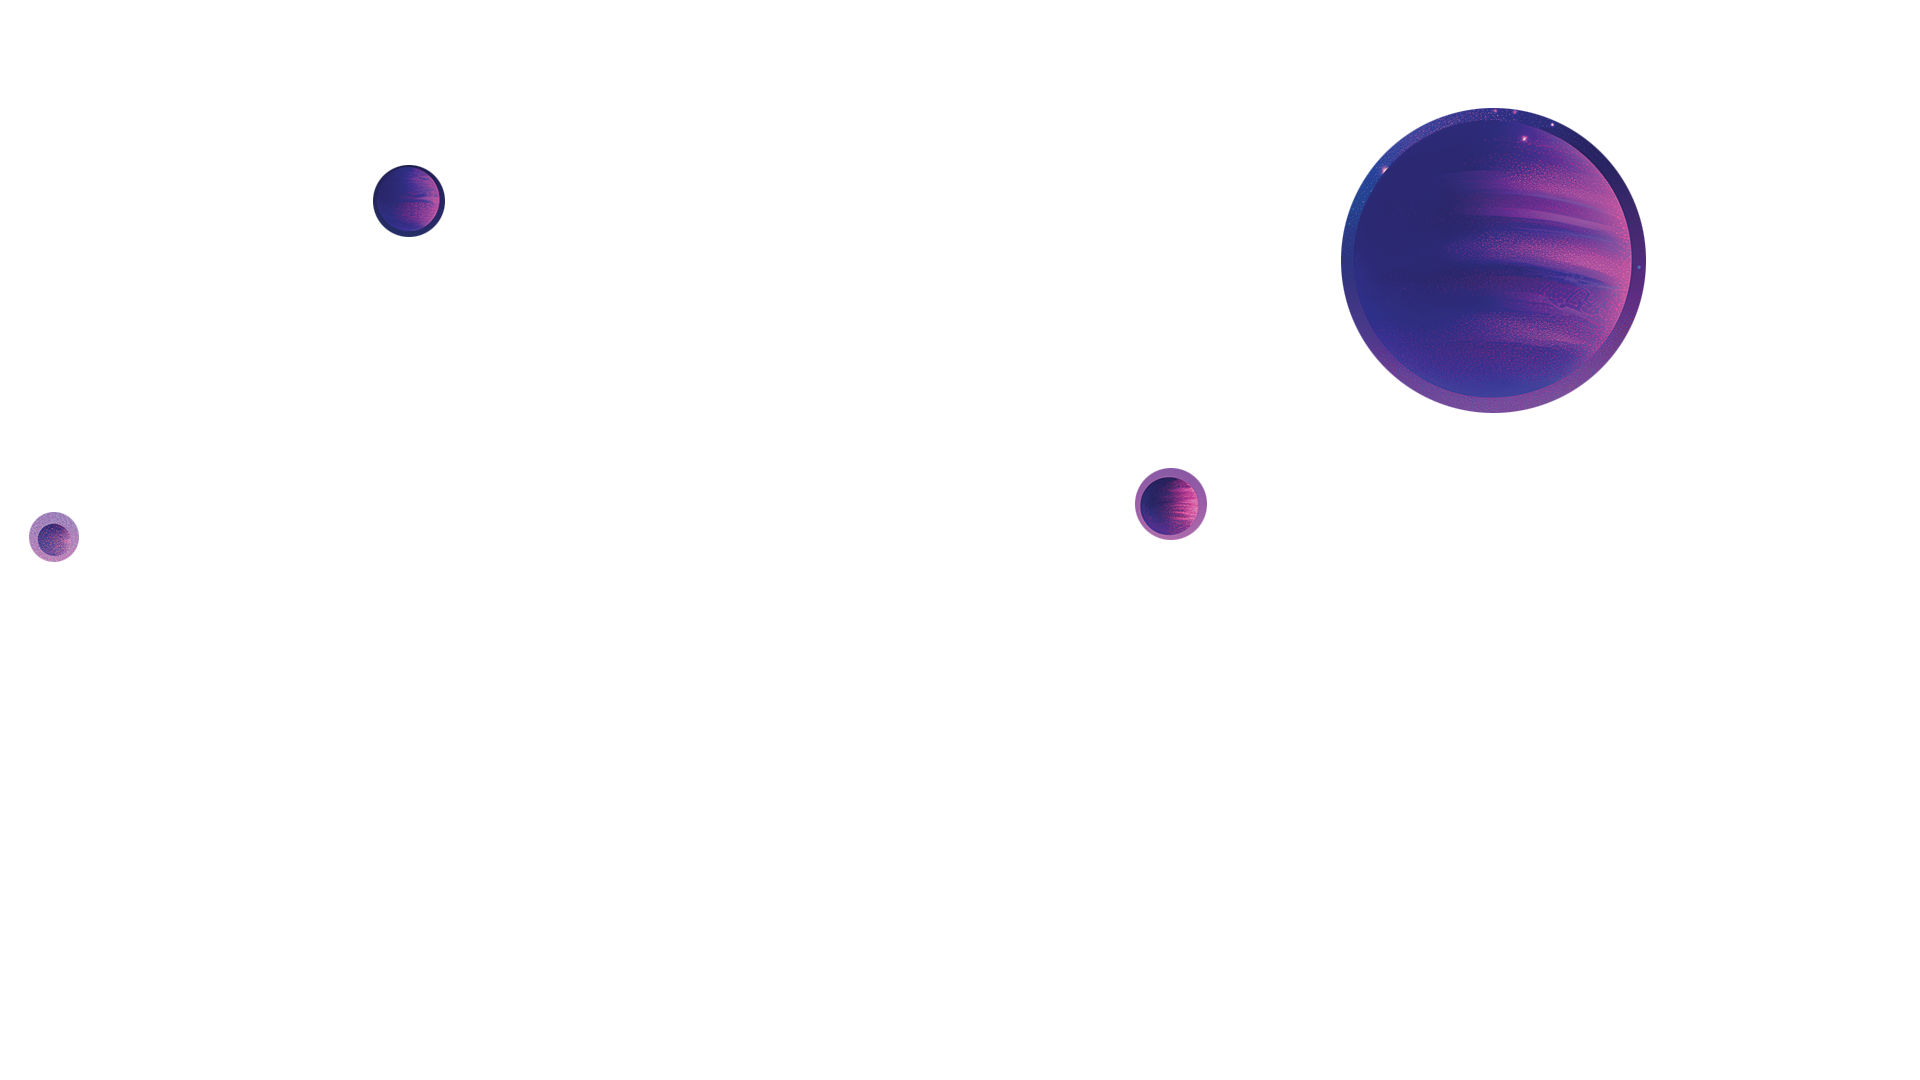
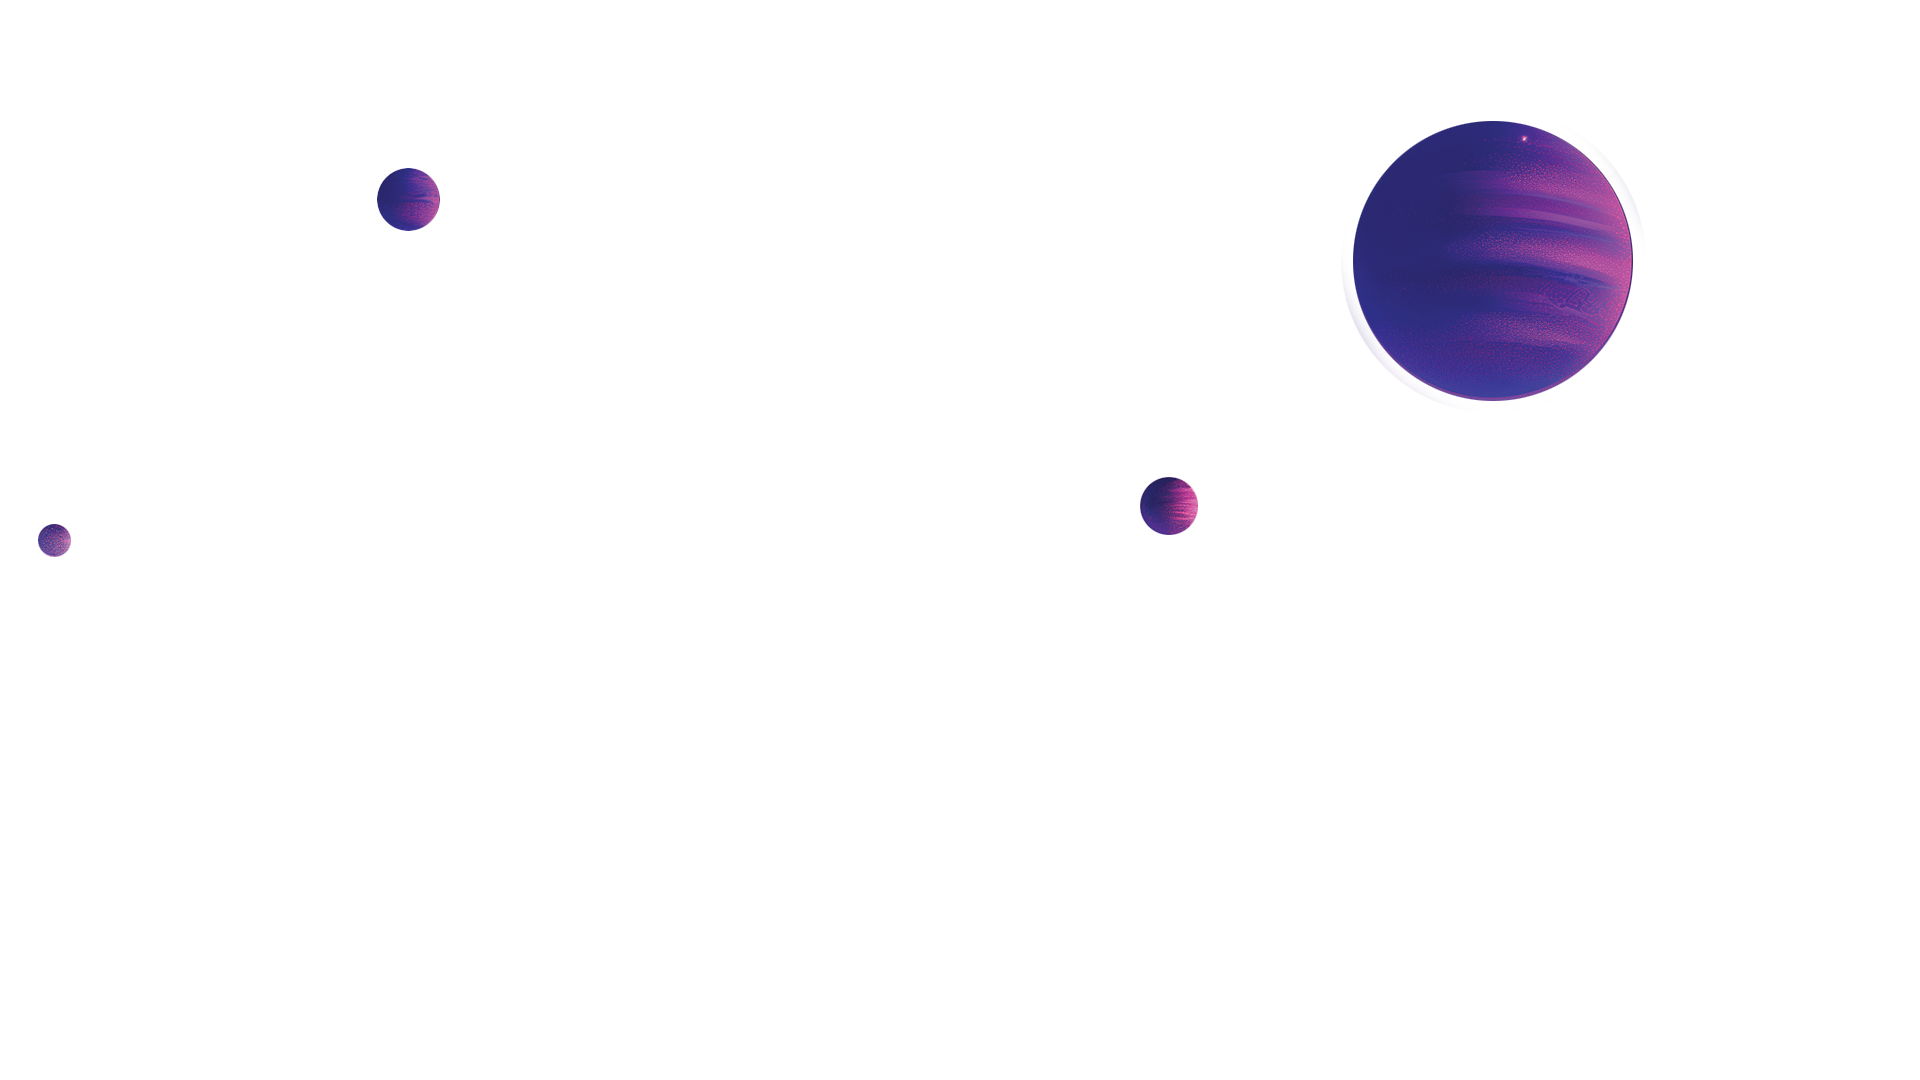
hero section updated

diff --git a/components/Banner/BannerV2.tsx b/components/Banner/BannerV2.tsx
@@ -75,7 +75,7 @@ const BannerV2 = () => {
 
   return (
     <div
-      className="hero-main-wrap bg-[var(--primary-color)] w-full h-[100%] overflow-hidden"
+      className="hero-main-wrap bg-[var(--primary-color)] bg-center bg-cover w-full h-[100%] overflow-hidden"
       style={{backgroundImage: "url('/images/layered-hero/6_sky.png')"}}>
       {/* <div className="sticky top-0 h-[100%] overflow-hidden">
         <img
@@ -84,7 +84,9 @@ const BannerV2 = () => {
           alt="Hamza Malik-Hero"
         />
       </div> */}
-      <div className="c-banner-content text-white container" data-aos="fade-up">
+      <div
+        className="c-banner-content text-white relative container z-10"
+        data-aos="fade-up">
         <div className="grid grid-cols-1 justify-center items-center">
           <div className="banner-right text-white col-span-2 text-center my-auto mt-40">
             <span className="greeting-tag">HI! I&apos;M,</span> <br />
@@ -100,11 +102,11 @@ const BannerV2 = () => {
               Together!
             </p>
             {/* <CTAPrimary text={'Get Started'} link={'#'} /> */}
-            <div className="flex flex-wrap justify-center mx-auto w-[70%]">
+            <div className=" flex-wrap justify-center mx-auto w-[70%] flex">
               {skills.map((skill, index) => (
                 <span
                   key={index}
-                  className="skill-list-item ml-3 mt-7"
+                  className="skill-list-item ml-3 mt-2 sm:mt-7"
                   data-aos="zoom-in-right">
                   {skill}
                 </span>
@@ -119,25 +121,25 @@ const BannerV2 = () => {
           </div>
         </div>
       </div>
-      <div className="hero-img-wrap col-span-1  mx-auto relative h-64 sm:h-[100vh]">
+      <div className="hero-img-wrap col-span-1  mx-auto relative h-48 sm:h-[70vh] md:h-[100vh]">
         <div className="slide-down-element absolute top-24"></div>
-        <div className="absolute bottom-0 sm:bottom-16 planets-layer">
+        <div className="absolute bottom-0 sm:bottom-16 planets-layer w-full">
           <img
-            className=""
+            className="w-full"
             src="images/layered-hero/5_planets.png"
             alt="Hamza Malik-Hero"
           />
         </div>
-        <div className="absolute -bottom-12 sm:-bottom-32 buildings-layer">
+        <div className="absolute -bottom-12 sm:-bottom-32 buildings-layer w-full">
           <img
-            className=""
+            className="w-full"
             src="images/layered-hero/3_buildings.png"
             alt="Hamza Malik-Hero"
           />
         </div>
-        <div className="absolute bottom-0 sm:bottom-20 floor-layer">
+        <div className="absolute bottom-0 sm:bottom-20 floor-layer w-full">
           <img
-            className=""
+            className="w-full"
             src="images/layered-hero/2_floor.png"
             alt="Hamza Malik-Hero"
           />

diff --git a/components/Banner/FloatingButtons/FloatingButtons.tsx b/components/Banner/FloatingButtons/FloatingButtons.tsx
@@ -21,20 +21,21 @@ const FloatingButtons = () => {
   return (
     <div>
       <div className="c-banner-cta-tray right-3 bottom-5 md:right-10 md:bottom-20 fixed z-10">
-        <Link href={'mailto:crhamza7@gmail.com'}>
-          <div className="floating-button flex justify-center items-center w-10 h-10 md:w-14 md:h-14 rounded-full  border-r-50">
-            <div className="scale-[0.7] md:scale-1">
-              <MessageCTAIcon />
-            </div>
-          </div>
-        </Link>
         <Link href={'tel:+971523125845'}>
-          <div className="floating-button flex justify-center items-center w-10 h-10 md:w-14 md:h-14 my-3 rounded-full border-r-50">
+          <div className="floating-button flex justify-center items-center w-10 h-10 md:w-14 md:h-14  rounded-full border-r-50">
             <div className="scale-[0.7] md:scale-1">
               <PhoneCTAIcon />
             </div>
           </div>
         </Link>
+        <Link href={'mailto:crhamza7@gmail.com'}>
+          <div className="floating-button flex justify-center items-center w-10 h-10 md:w-14 md:h-14 my-3 rounded-full  border-r-50">
+            <div className="scale-[0.7] md:scale-1">
+              <MessageCTAIcon />
+            </div>
+          </div>
+        </Link>
+
         <Link href={'whatsapp://send?phone=+971523125845'}>
           <div className="floating-button flex justify-center items-center w-10 h-10 md:w-14 md:h-14 rounded-full border-r-50">
             <div className="scale-[0.7] md:scale-1">

diff --git a/public/images/CTA-Tray/MessageCTAIcon.tsx b/public/images/CTA-Tray/MessageCTAIcon.tsx
@@ -1,4 +1,4 @@
-import React from "react";
+import React from 'react';
 
 const MessageCTAIcon = () => {
   return (
@@ -7,8 +7,7 @@ const MessageCTAIcon = () => {
       height="30"
       viewBox="0 0 30 30"
       fill="current"
-      xmlns="http://www.w3.org/2000/svg"
-    >
+      xmlns="http://www.w3.org/2000/svg">
       <path d="M10 13.75C10 13.0596 10.5596 12.5 11.25 12.5H18.75C19.4404 12.5 20 13.0596 20 13.75C20 14.4404 19.4404 15 18.75 15H11.25C10.5596 15 10 14.4404 10 13.75Z" />
       <path d="M11.25 17.5C10.5596 17.5 10 18.0596 10 18.75C10 19.4404 10.5596 20 11.25 20H15C15.6904 20 16.25 19.4404 16.25 18.75C16.25 18.0596 15.6904 17.5 15 17.5H11.25Z" />
       <path

diff --git a/components/Banner/BannerV2.css b/components/Banner/BannerV2.css
@@ -72,4 +72,7 @@
     width: 75%;
     font-size: 14px;
   }
+  .skill-list-item {
+    font-size: 0.8em;
+  }
 }
